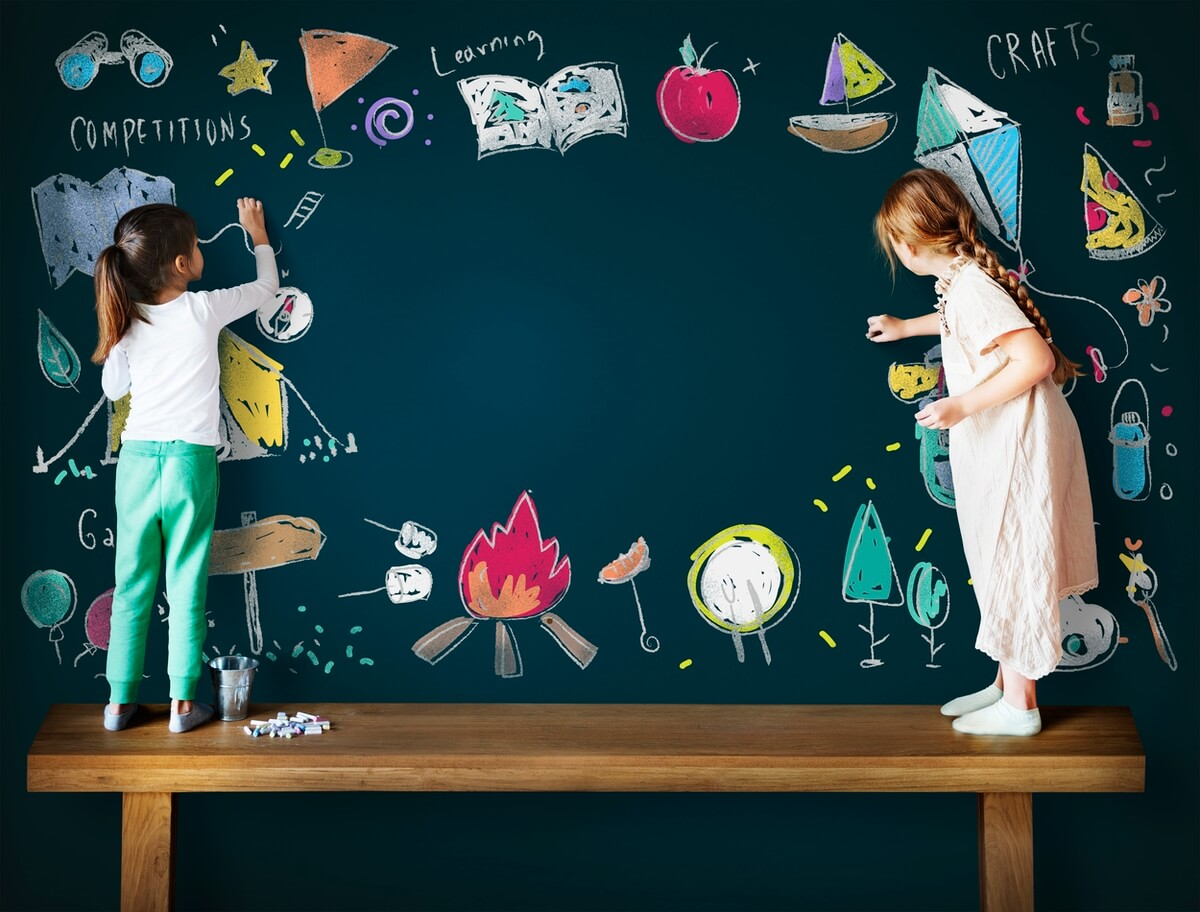
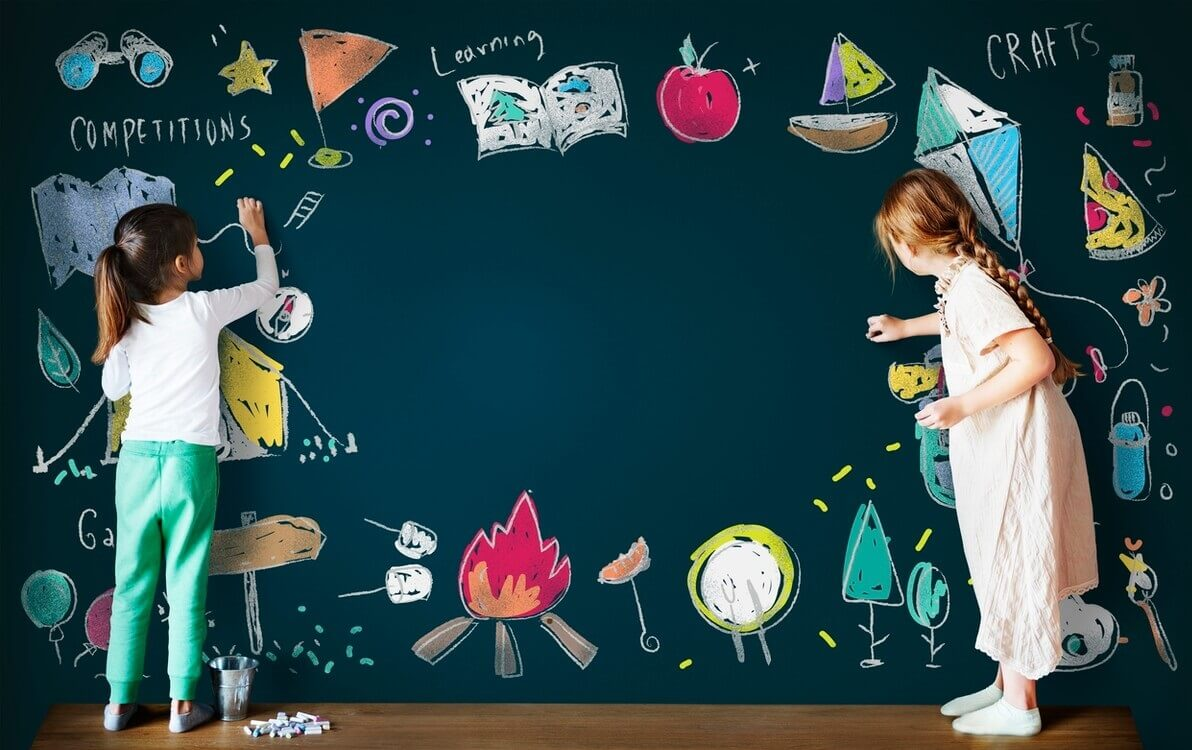
change hero-image for a compressed version

diff --git a/assets/style.css b/assets/style.css
@@ -49,7 +49,7 @@ a:hover {
 #hero-container {  
     margin: 0 auto; 
     width: 870px;
-    height: 521px;
+    height: 530px;
     display: flex;
     position: relative;
     background-image: url(../assets/images/home-hero-image-clean-board.jpg);
@@ -312,7 +312,7 @@ hr {
 }
 
 #add-comment {
-    max-width: 100%;
+    max-width: 90%;
     margin: 10px 0;
     resize: none;
     border: 2px solid rgb(0, 158, 134); 
